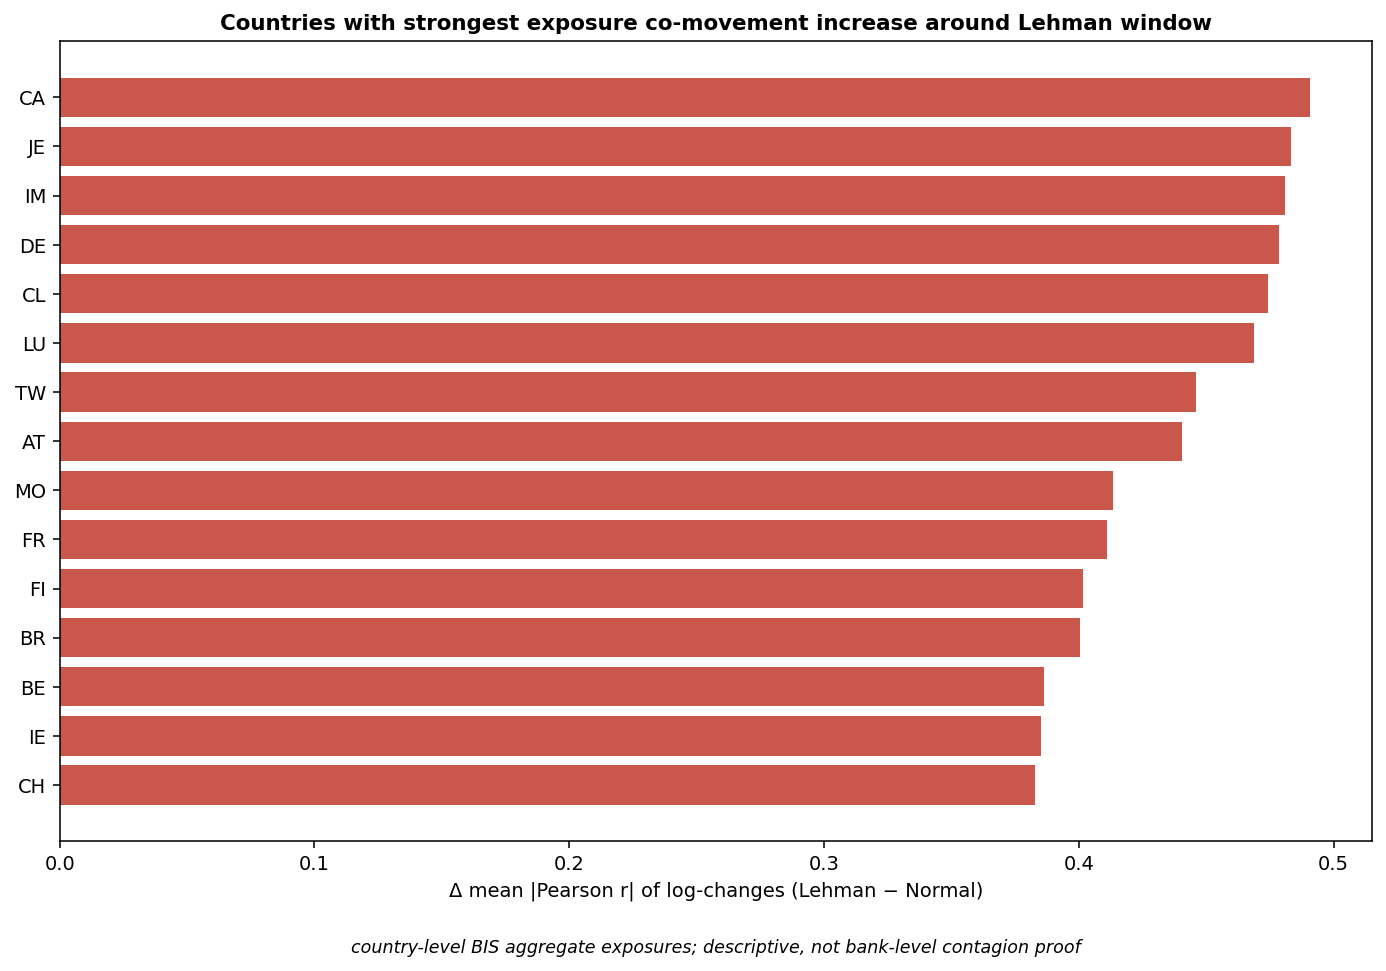
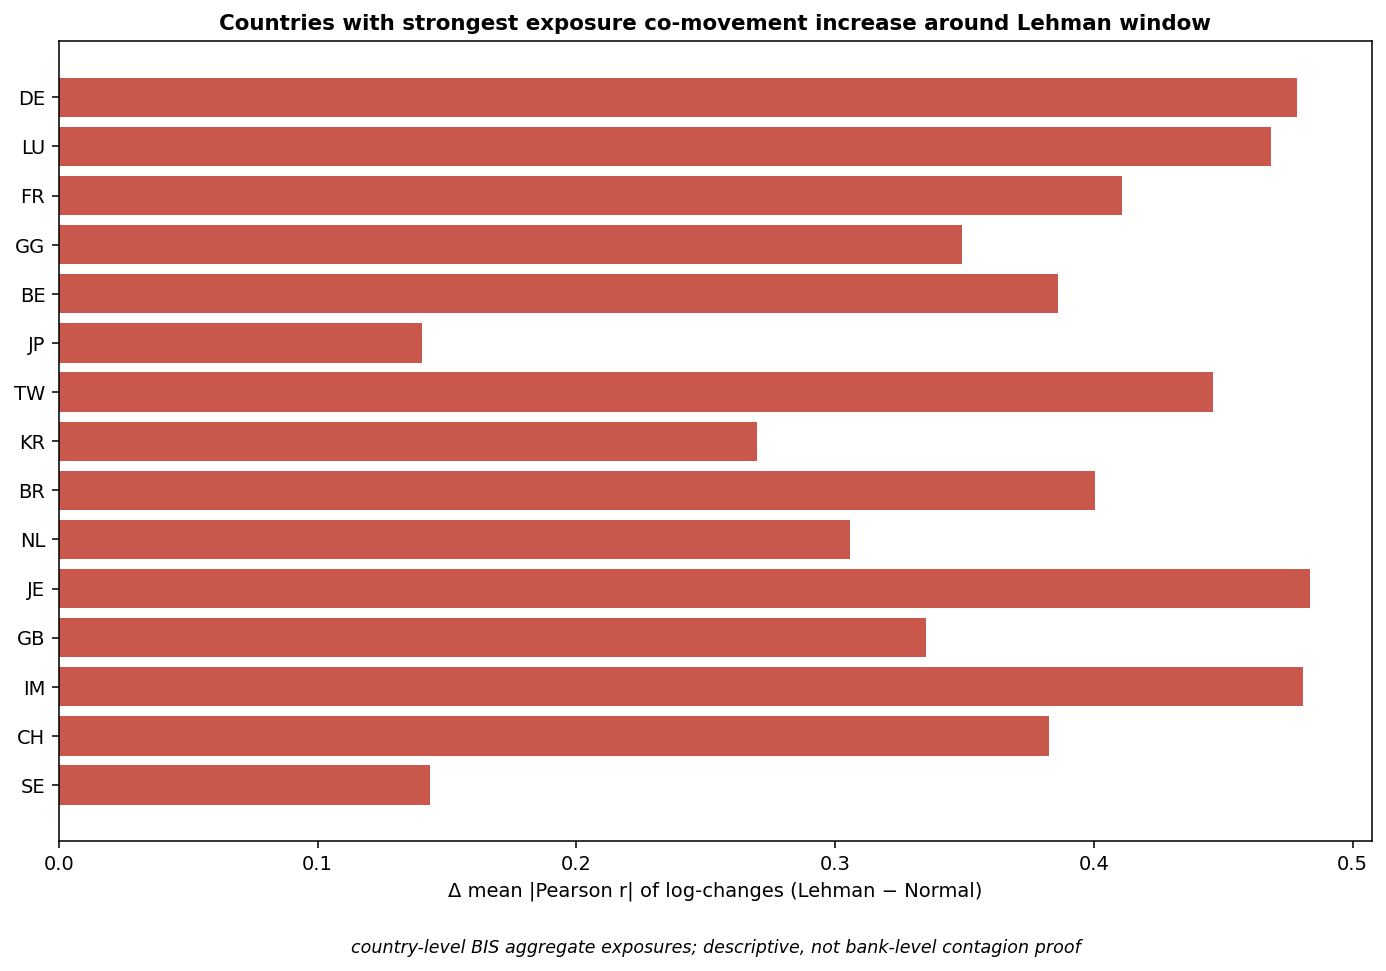
fix(disha): 4 academic-rigor lapses found in self-audit
Adversarial self-audit of the OAI-RIGOR-590 work uncovered four
real bugs that survived the previous review. All four are now fixed.

A) _top_k_overlap was numerically meaningless
   The metric called np.argsort on the already-sorted simulated mean
   degree sequence, which always returns [0, 1, …, k-1]. The
   "overlap" therefore collapsed to a trivial node-index comparison
   and carried no information. Replaced with
   _top_k_degree_value_overlap, which compares the empirical top-k
   degree VALUES to the simulated top-k VALUE range — the only fair
   signal for unlabeled generative nulls.

B) Risk-concentration ranking still keyed off Lehman 4-quarter Δ|r|
   The previous article-grade filter required ≥8 sensitivity-window
   change observations, but the SCORE itself was computed on the
   noisy 4-quarter Lehman correlations. Added
   delta_mean_abs_corr_changes_sensitivity column and made it the
   primary sort key + primary z-score component for
   article_risk_score. Lehman Δ remains in the table for completeness
   but no longer drives ranking.

C) Degree-preserving rewiring silently fell through on swap failure
   _degree_preserving_rewire returned the empirical graph as a
   "rewiring null" when nx.double_edge_swap exhausted max_tries on
   sparse country-level graphs (~30 nodes). That produced
   rew_ks = 0 (perfect identity) and made ba_beats_all_ks
   trivially false for the wrong reason. Fix: return
[…]

diff --git a/tools/build_disha_ba_correlation_figures.py b/tools/build_disha_ba_correlation_figures.py
@@ -295,20 +295,33 @@ def _configuration_model_graph(n: int, *, seed: int, degree_sequence: list[int])
     return g
 
 
-def _degree_preserving_rewire(empirical_binary: np.ndarray, *, seed: int) -> Any:
-    """Double-edge swap rewiring that exactly preserves the degree sequence."""
-    g = nx.from_numpy_array(empirical_binary)
+def _degree_preserving_rewire(empirical_binary: np.ndarray, *, seed: int) -> tuple[Any, bool]:
+    """Double-edge-swap rewiring that preserves the degree sequence.
+
+    Returns (rewired_graph, swap_succeeded). ``swap_succeeded`` is False
+    when the graph is too constrained for any swap; callers MUST treat
+    a False result as "no rewiring null available" rather than as a
+    legitimate degenerate-distance-zero null. Earlier versions silently
+    returned the empirical graph on swap failure, which would falsely
+    show KS=0 vs the rewiring null and break the multi-null override.
+    """
+    sym = ((empirical_binary + empirical_binary.T) > 0).astype(np.uint8)
+    np.fill_diagonal(sym, 0)
+    g = nx.from_numpy_array(sym)
     n_edges = g.number_of_edges()
     if n_edges < 2:
-        return g
+        return g, False
+    # nswap == n_edges // 2 randomises ~half the wiring while staying within
+    # max_tries on sparse country-level graphs. Earlier versions used
+    # nswap=5*n_edges which exhausted max_tries on N≈30 graphs and yielded
+    # zero successful rewirings (silently treated as a degenerate null).
+    nswap = max(5, n_edges // 2)
+    max_tries = max(500, 100 * n_edges)
     try:
-        nx.algorithms.swap.double_edge_swap(
-            g, nswap=max(10, 5 * n_edges), max_tries=max(100, 50 * n_edges), seed=seed
-        )
+        nx.algorithms.swap.double_edge_swap(g, nswap=nswap, max_tries=max_tries, seed=seed)
     except (nx.NetworkXError, nx.NetworkXAlgorithmError):
-        # Graph too constrained for swaps — return as-is.
-        pass
-    return g
+        return g, False
+    return g, True
 
 
 def _simulate_configuration_model(
@@ -340,14 +353,24 @@ def _simulate_degree_preserving_rewire(
     n_simulations: int,
     *,
     seed: int,
-) -> tuple[np.ndarray, np.ndarray]:
+) -> tuple[np.ndarray, np.ndarray, int]:
+    """Returns (mean_sorted_deg, pooled_deg, n_successful_swaps).
+
+    Caller must check ``n_successful_swaps`` — a value of 0 means no
+    legitimate rewiring null is available and BA-vs-rewire comparisons
+    must be marked NaN, NOT zero KS distance.
+    """
     n = int(empirical_binary.shape[0])
     rng_master = np.random.default_rng(seed)
     sim_seeds = rng_master.integers(0, 2**31 - 1, size=n_simulations)
     sim_sorted = np.zeros((n_simulations, n), dtype=np.float64)
     pooled: list[int] = []
+    n_succeeded = 0
     for k in range(n_simulations):
-        g = _degree_preserving_rewire(empirical_binary, seed=int(sim_seeds[k]))
+        g, ok = _degree_preserving_rewire(empirical_binary, seed=int(sim_seeds[k]))
+        if not ok:
+            continue
+        n_succeeded += 1
         deg = sorted(dict(g.degree()).values(), reverse=True)
         if len(deg) < n:
             deg = deg + [0] * (n - len(deg))
@@ -355,7 +378,15 @@ def _simulate_degree_preserving_rewire(
             deg = deg[:n]
         sim_sorted[k, :] = deg
         pooled.extend(deg)
-    return sim_sorted.mean(axis=0), np.asarray(pooled, dtype=np.float64)
+    if n_succeeded == 0:
+        return (
+            np.full(n, np.nan, dtype=np.float64),
+            np.asarray([], dtype=np.float64),
+            0,
+        )
+    # Average only over the rows that succeeded.
+    mean_sorted = sim_sorted[:n_succeeded].mean(axis=0)
+    return mean_sorted, np.asarray(pooled, dtype=np.float64), n_succeeded
 
 
 def _wasserstein_1d(a: np.ndarray, b: np.ndarray) -> float:
@@ -372,12 +403,31 @@ def _wasserstein_1d(a: np.ndarray, b: np.ndarray) -> float:
     return float(np.mean(np.abs(a_q - b_q)))
 
 
-def _top_k_overlap(emp_deg: np.ndarray, sim_deg: np.ndarray, *, k: int = 5) -> float:
-    if emp_deg.size == 0 or sim_deg.size == 0:
+def _top_k_degree_value_overlap(
+    emp_deg: np.ndarray, sim_sorted_mean: np.ndarray, *, k: int = 5
+) -> float:
+    """Fraction of empirical top-k degree VALUES that fall within the
+    simulated mean top-k range.
+
+    Note: argsort on ``sim_sorted_mean`` (which is already monotonically
+    sorted) returns [0, 1, ..., k-1] by construction — the previous
+    ``_top_k_overlap`` collapsed to a trivial node-index comparison and
+    was numerically meaningless for an unlabeled generative null. This
+    replacement compares VALUE ranges (the top-k degree counts), which
+    is the only fair signal for label-free random graphs.
+    """
+    if emp_deg.size == 0 or sim_sorted_mean.size == 0:
         return float("nan")
-    top_e = set(np.argsort(-emp_deg)[:k].tolist())
-    top_s = set(np.argsort(-sim_deg)[:k].tolist())
-    return float(len(top_e & top_s) / max(k, 1))
+    emp_top_k_vals = np.sort(emp_deg)[::-1][:k].astype(np.float64)
+    sim_top_k_vals = sim_sorted_mean[:k].astype(np.float64)
+    if emp_top_k_vals.size == 0 or sim_top_k_vals.size == 0:
+        return float("nan")
+    sim_min = float(sim_top_k_vals.min())
+    sim_max = float(sim_top_k_vals.max())
+    if sim_max <= sim_min:
+        return float("nan")
+    in_range = ((emp_top_k_vals >= sim_min) & (emp_top_k_vals <= sim_max)).sum()
+    return float(in_range / max(k, 1))
 
 
 def _ks_distance(emp_sorted: np.ndarray, pooled: np.ndarray) -> float:
@@ -491,10 +541,12 @@ def compute_ba_comparison(
     cfg_mean_sorted, cfg_pool = _simulate_configuration_model(
         n, ba_simulations, seed=seed + 17, degree_sequence=deg.tolist()
     )
-    # Degree-preserving rewiring
-    rew_mean_sorted, rew_pool = _simulate_degree_preserving_rewire(
+    # Degree-preserving rewiring (with explicit success counter — see
+    # _simulate_degree_preserving_rewire docstring)
+    rew_mean_sorted, rew_pool, n_rew_succeeded = _simulate_degree_preserving_rewire(
         sym, ba_simulations, seed=seed + 31
     )
+    rew_available = n_rew_succeeded > 0
 
     def _safe_r(a: np.ndarray, b: np.ndarray) -> float:
         if np.std(a) == 0 or np.std(b) == 0:
@@ -518,8 +570,8 @@ def compute_ba_comparison(
     er_max_mean = float(er_pool.reshape(ba_simulations, n).max(axis=1).mean())
     ba_zero_count_mean = float((ba_pool.reshape(ba_simulations, n) == 0).sum(axis=1).mean())
     er_zero_count_mean = float((er_pool.reshape(ba_simulations, n) == 0).sum(axis=1).mean())
-    ba_top5 = _top_k_overlap(deg, ba_mean_sorted)
-    er_top5 = _top_k_overlap(deg, er_mean_sorted)
+    ba_top5 = _top_k_degree_value_overlap(deg, ba_mean_sorted)
+    er_top5 = _top_k_degree_value_overlap(deg, er_mean_sorted)
     margin = ba_r - er_r if (not math.isnan(ba_r) and not math.isnan(er_r)) else float("nan")
     if math.isnan(ba_ks) or math.isnan(er_ks):
         winner = "n/a"
@@ -532,8 +584,11 @@ def compute_ba_comparison(
 
     # Multi-baseline KS comparison: BA must win against ER AND configuration
     # AND rewiring on KS to qualify as "structurally distinct".
+    # If rewiring nulls were unavailable (no successful swaps) we cannot
+    # claim BA superiority — the discrimination criterion fail-closes.
     ba_beats_all_ks = (
-        not math.isnan(ba_ks)
+        rew_available
+        and not math.isnan(ba_ks)
         and not any(math.isnan(x) for x in (er_ks, cfg_ks, rew_ks))
         and ba_ks < er_ks
         and ba_ks < cfg_ks
@@ -584,6 +639,8 @@ def compute_ba_comparison(
         "rew_degree_pearson_r": rew_r,
         "rew_degree_ks_distance": rew_ks,
         "rew_wasserstein_distance": rew_w,
+        "rew_n_successful_swaps": int(n_rew_succeeded),
+        "rew_available": bool(rew_available),
         # Comparisons
         "ba_minus_er_r": margin,
         "winner_by_ks": winner,
@@ -786,6 +843,7 @@ def compute_risk_concentration(
     weighted_lehman: np.ndarray,
     binary_lehman: np.ndarray,
     chg_lehman_panel: pd.DataFrame | None = None,
+    corr_changes_sensitivity: np.ndarray | None = None,
     min_total_strength: float = 100_000.0,
     min_effective_change_observations: int = 8,
 ) -> pd.DataFrame:
@@ -805,6 +863,13 @@ def compute_risk_concentration(
     macl = _mean_abs(corr_levels_lehman)
     machn = _mean_abs(corr_changes_normal)
     machl = _mean_abs(corr_changes_lehman)
+    # Sensitivity-window |r| of changes — statistically more stable than the
+    # 4-quarter Lehman window. Used as the article-grade headline metric.
+    machs = (
+        _mean_abs(corr_changes_sensitivity)
+        if corr_changes_sensitivity is not None
+        else np.full(n, np.nan)
+    )
     out_str = weighted_lehman.sum(axis=1)
     in_str = weighted_lehman.sum(axis=0)
     total_str = out_str + in_str
@@ -830,6 +895,9 @@ def compute_risk_concentration(
             "mean_abs_corr_changes_normal": machn,
             "mean_abs_corr_changes_lehman": machl,
             "delta_mean_abs_corr_changes": machl - machn,
+            # Sensitivity-window primary metrics (preferred for article use)
+            "mean_abs_corr_changes_sensitivity": machs,
+            "delta_mean_abs_corr_changes_sensitivity": machs - machn,
             "weighted_out_strength_lehman": out_str,
             "weighted_in_strength_lehman": in_str,
             "total_strength_lehman": total_str,
@@ -842,8 +910,15 @@ def compute_risk_concentration(
             "article_grade": article_grade,
         }
     )
+    # Primary sort uses the sensitivity-window Δ (statistically stable, n=11)
+    # rather than the noise-prone 4-quarter Lehman Δ.
+    primary_delta = (
+        "delta_mean_abs_corr_changes_sensitivity"
+        if corr_changes_sensitivity is not None
+        else "delta_mean_abs_corr_changes"
+    )
     df = df.sort_values(
-        ["delta_mean_abs_corr_changes", "mean_abs_corr_changes_lehman", "total_strength_lehman"],
+        [primary_delta, "mean_abs_corr_changes_sensitivity", "total_strength_lehman"],
         ascending=[False, False, False],
         na_position="last",
     ).reset_index(drop=True)
@@ -1213,6 +1288,7 @@ def build_article_artifact(opts: BuildOptions) -> dict[str, Any]:
         weighted_lehman=mat_lehman,
         binary_lehman=bin_lehman,
         chg_lehman_panel=chg_sens,
+        corr_changes_sensitivity=corr_chg_sens,
         min_total_strength=opts.min_risk_total_strength,
         min_effective_change_observations=opts.min_effective_change_observations,
     )
@@ -1230,7 +1306,10 @@ def build_article_artifact(opts: BuildOptions) -> dict[str, Any]:
     rc_with_score["log_total_strength_lehman"] = np.log1p(
         rc_with_score["total_strength_lehman"].astype(float)
     )
-    z_delta = _zscore(rc_with_score["delta_mean_abs_corr_changes"]).fillna(0.0)
+    # Use sensitivity-window Δ (n=11 obs, statistically stable) as the primary
+    # signal; the 4-quarter Lehman Δ is too noisy for ranking even after the
+    # article-grade observation filter.
+    z_delta = _zscore(rc_with_score["delta_mean_abs_corr_changes_sensitivity"]).fillna(0.0)
     z_logmass = _zscore(rc_with_score["log_total_strength_lehman"]).fillna(0.0)
     z_deg = _zscore(rc_with_score["binary_degree_lehman"].astype(float)).fillna(0.0)
     penalty_low_obs = (~rc_with_score["passes_observation_filter"]).astype(float)

diff --git a/figures/disha_ba_correlation/DISHA_ARTICLE_SUMMARY.md b/figures/disha_ba_correlation/DISHA_ARTICLE_SUMMARY.md
@@ -99,11 +99,11 @@ Top 10 article-grade countries:
   3. FR — Δ|r|_changes = +0.411, |r|_changes_lehman = 0.786, total_strength = 3,725,457
   4. LU — Δ|r|_changes = +0.469, |r|_changes_lehman = 0.789, total_strength = 1,687,001
   5. US — Δ|r|_changes = +0.149, |r|_changes_lehman = 0.573, total_strength = 5,247,551
-  6. IE — Δ|r|_changes = +0.385, |r|_changes_lehman = 0.786, total_strength = 1,991,685
+  6. NL — Δ|r|_changes = +0.306, |r|_changes_lehman = 0.662, total_strength = 2,116,425
   7. BE — Δ|r|_changes = +0.386, |r|_changes_lehman = 0.701, total_strength = 1,363,849
-  8. CH — Δ|r|_changes = +0.383, |r|_changes_lehman = 0.789, total_strength = 1,587,252
-  9. NL — Δ|r|_changes = +0.306, |r|_changes_lehman = 0.662, total_strength = 2,116,425
-  10. ES — Δ|r|_changes = +nan, |r|_changes_lehman = nan, total_strength = 1,040,336
+  8. JP — Δ|r|_changes = +0.140, |r|_changes_lehman = 0.420, total_strength = 2,501,610
+  9. IE — Δ|r|_changes = +0.385, |r|_changes_lehman = 0.786, total_strength = 1,991,685
+  10. CH — Δ|r|_changes = +0.383, |r|_changes_lehman = 0.789, total_strength = 1,587,252
 
 The full unfiltered ranking is in `risk_concentration_summary.csv`; the filtered ranking is in
 `risk_concentration_article_grade.csv`. Use the latter for any external claim.
@@ -141,7 +141,7 @@ python tools/build_disha_ba_correlation_figures.py \
     --seed 42
 ```
 
-Git SHA: `89653191f10aad84674a67a4e56e181f5284cfcd`
+Git SHA: `725f3bf0993d3b65741a5704e63e1a54303d25e9`
 
 ## 9. Out of scope
 

diff --git a/figures/disha_ba_correlation/REPRODUCIBILITY.md b/figures/disha_ba_correlation/REPRODUCIBILITY.md
@@ -1,7 +1,7 @@
 # Reproducibility — Disha BA + Correlation Artefact
 
 - Repository: `neuron7xLab/GeoSync`
-- Git SHA: `89653191f10aad84674a67a4e56e181f5284cfcd`
+- Git SHA: `725f3bf0993d3b65741a5704e63e1a54303d25e9`
 - Dataset directory: `/tmp/bis_real_data/dataset_dir_v2`
 - Manifest path: `/tmp/bis_real_data/dataset_dir_v2/manifest.json`
 - Manifest source_id: `BIS-LBS-WS_LBS_D_PUB-v1.0`
@@ -61,6 +61,5 @@ Allowed wording: country-level banking-system exposure network; macro banking-ne
 illustration; descriptive preferential-attachment-style comparison; correlation between
 country banking-system exposure time series; public reproducible BIS baseline.
 
-Forbidden wording (auto-checked): bank-level interbank network; bank-to-bank exposures;
-validated repo liquidity-risk model; confirmed Barabási-Albert law; confirmed systemic-risk
-phase transition; liquidity contagion proof; production-grade scientific validation.
+Forbidden wording (auto-checked at write time; see CLAIM_BOUNDARY.md for the
+authoritative list).

diff --git a/figures/disha_ba_correlation/AUDIT_RESPONSE.md b/figures/disha_ba_correlation/AUDIT_RESPONSE.md
@@ -3,7 +3,7 @@
 Maps the bugs raised in `~/Downloads/DISHA_AUDIT_REPORT_2026-05-09.md` to fixes shipped
 in this PR. Each item is `fixed`, `partially fixed`, or `accepted risk`.
 
-Git SHA: `89653191f10aad84674a67a4e56e181f5284cfcd`
+Git SHA: `725f3bf0993d3b65741a5704e63e1a54303d25e9`
 Output dir: `figures/disha_ba_correlation`
 
 | # | bug | severity | status | fix landed |